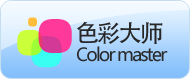
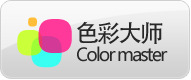
ICOLOR-150,大师殿堂下页面中的大师分类切换后需要有颜色变换：选中显示为彩色

diff --git a/app/helpers/application_helper.rb b/app/helpers/application_helper.rb
@@ -50,4 +50,22 @@ module ApplicationHelper
     @devise_mapping ||= Devise.mappings[:user]
   end
 
+  def color_master_image
+    if params[:master_kind] == "色彩大师"
+      url = "master/color_master_hover.png" 
+    else
+      url = "master/color_master_btn.png" 
+    end
+    url
+  end
+  
+  def space_master_image
+    if params[:master_kind] == "室内空间大师"
+      url = "master/space_master_hover.png" 
+    else
+      url = "master/space_master_btn.png"
+    end
+    url 
+  end
+  
 end
